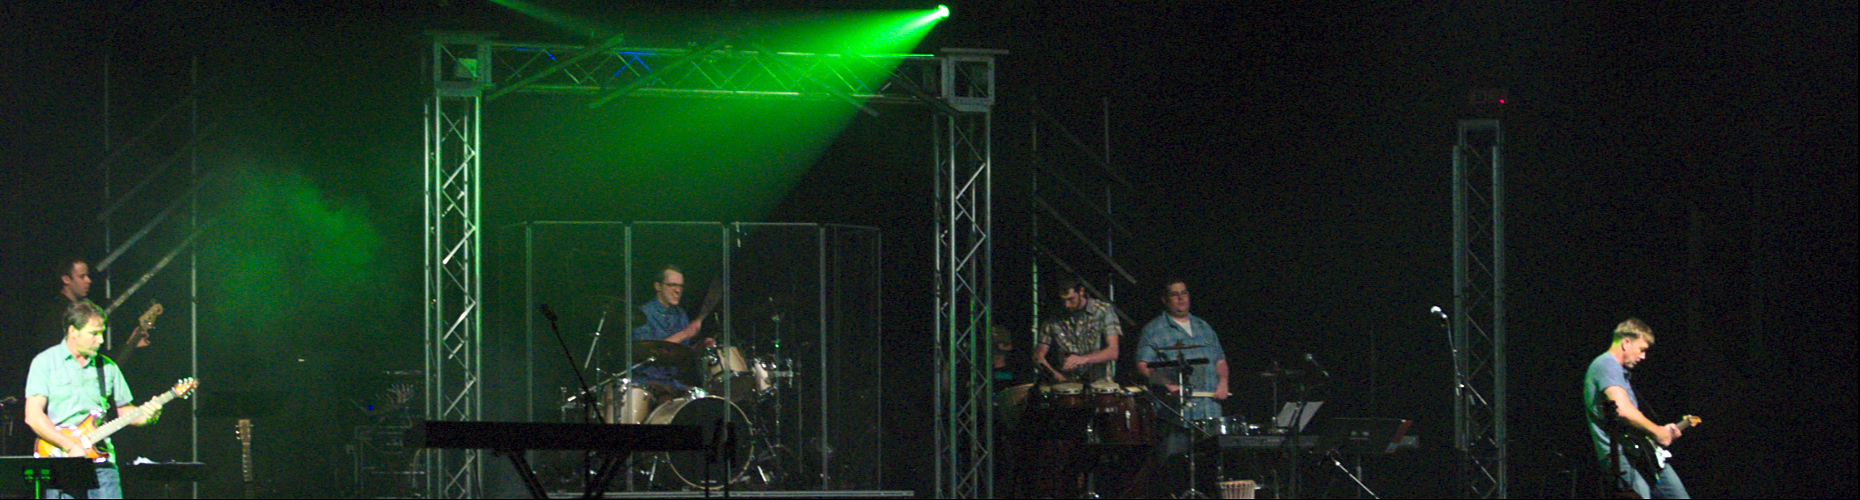
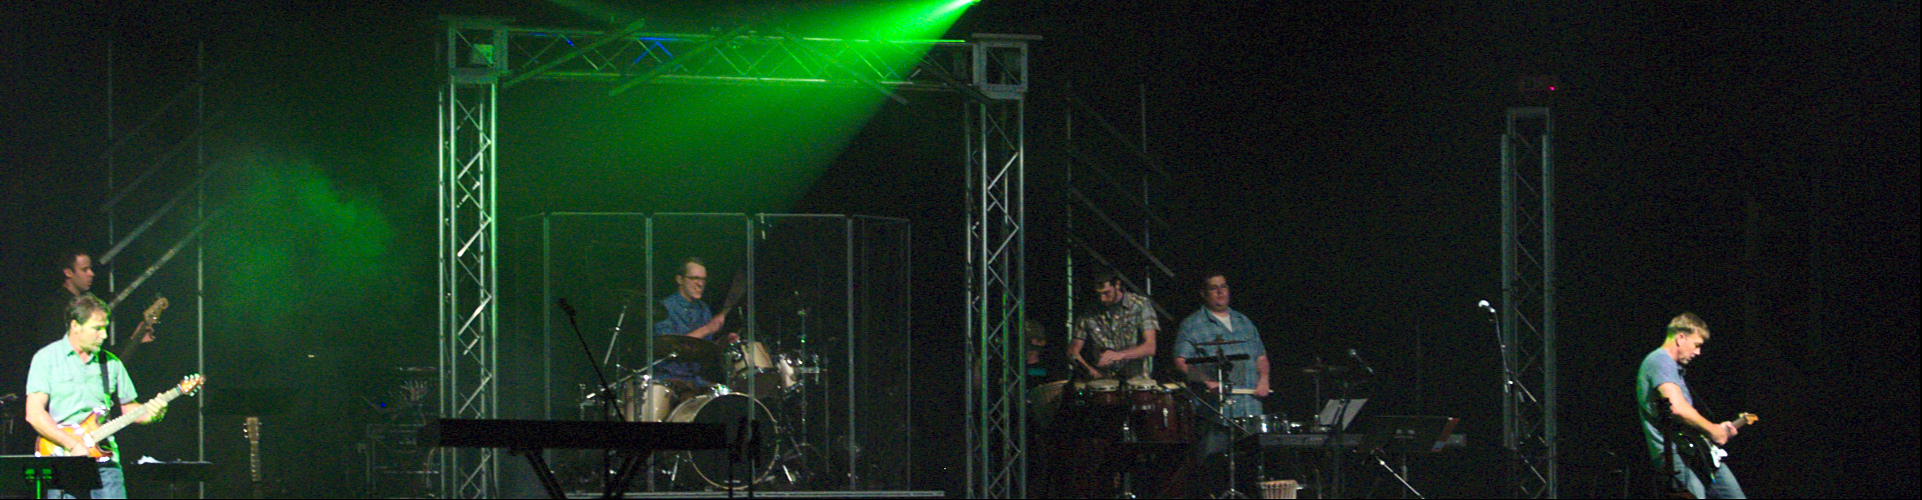
Add another image

diff --git a/_includes/themes/lvavc/frontpage.html b/_includes/themes/lvavc/frontpage.html
@@ -98,7 +98,7 @@
           </div>
         </div>
         <div class="item active">
-          <img alt="Third slide" src="images/atlee6.jpg">
+          <img alt="Third slide" src="images/atlee5.jpg">
           <div class="container">
             <div class="carousel-caption">
               <h1>DESIGN</h1>
